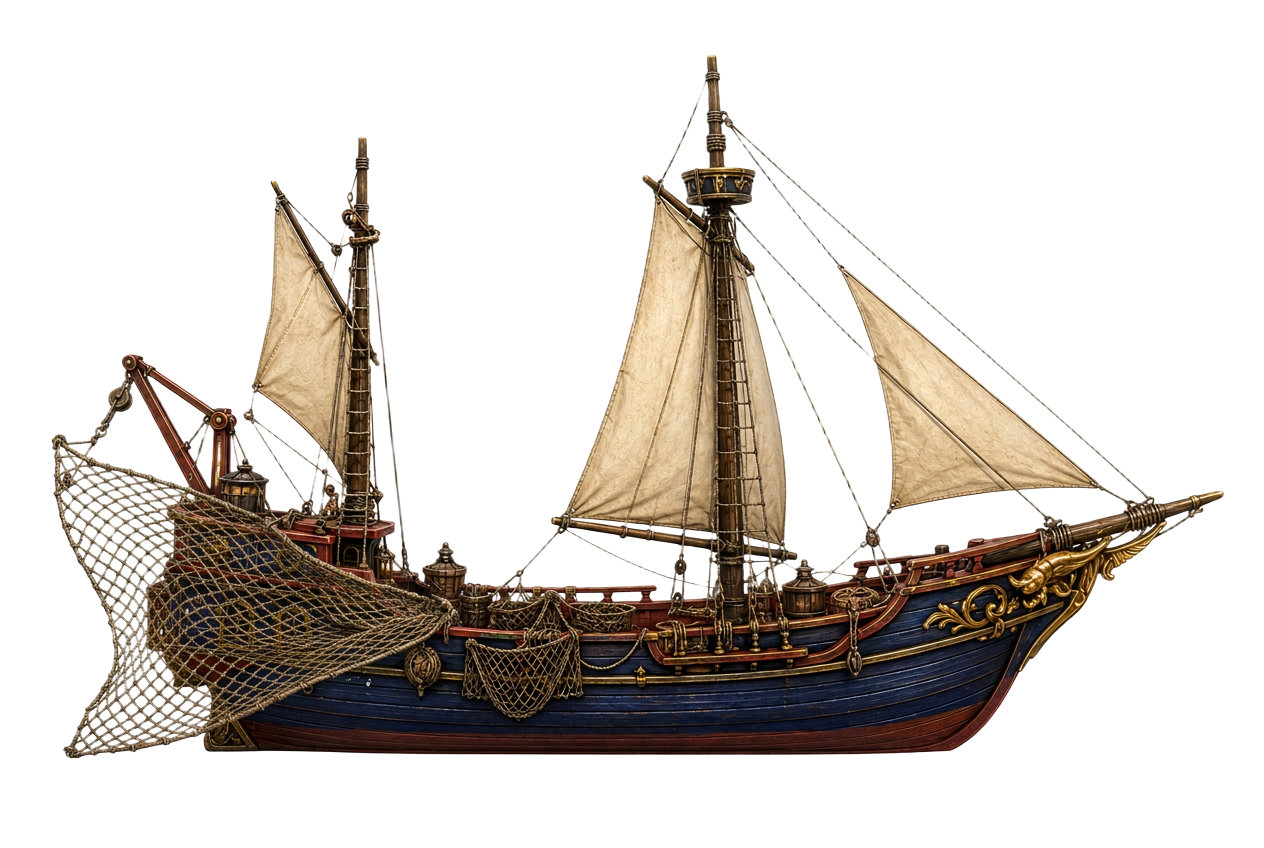
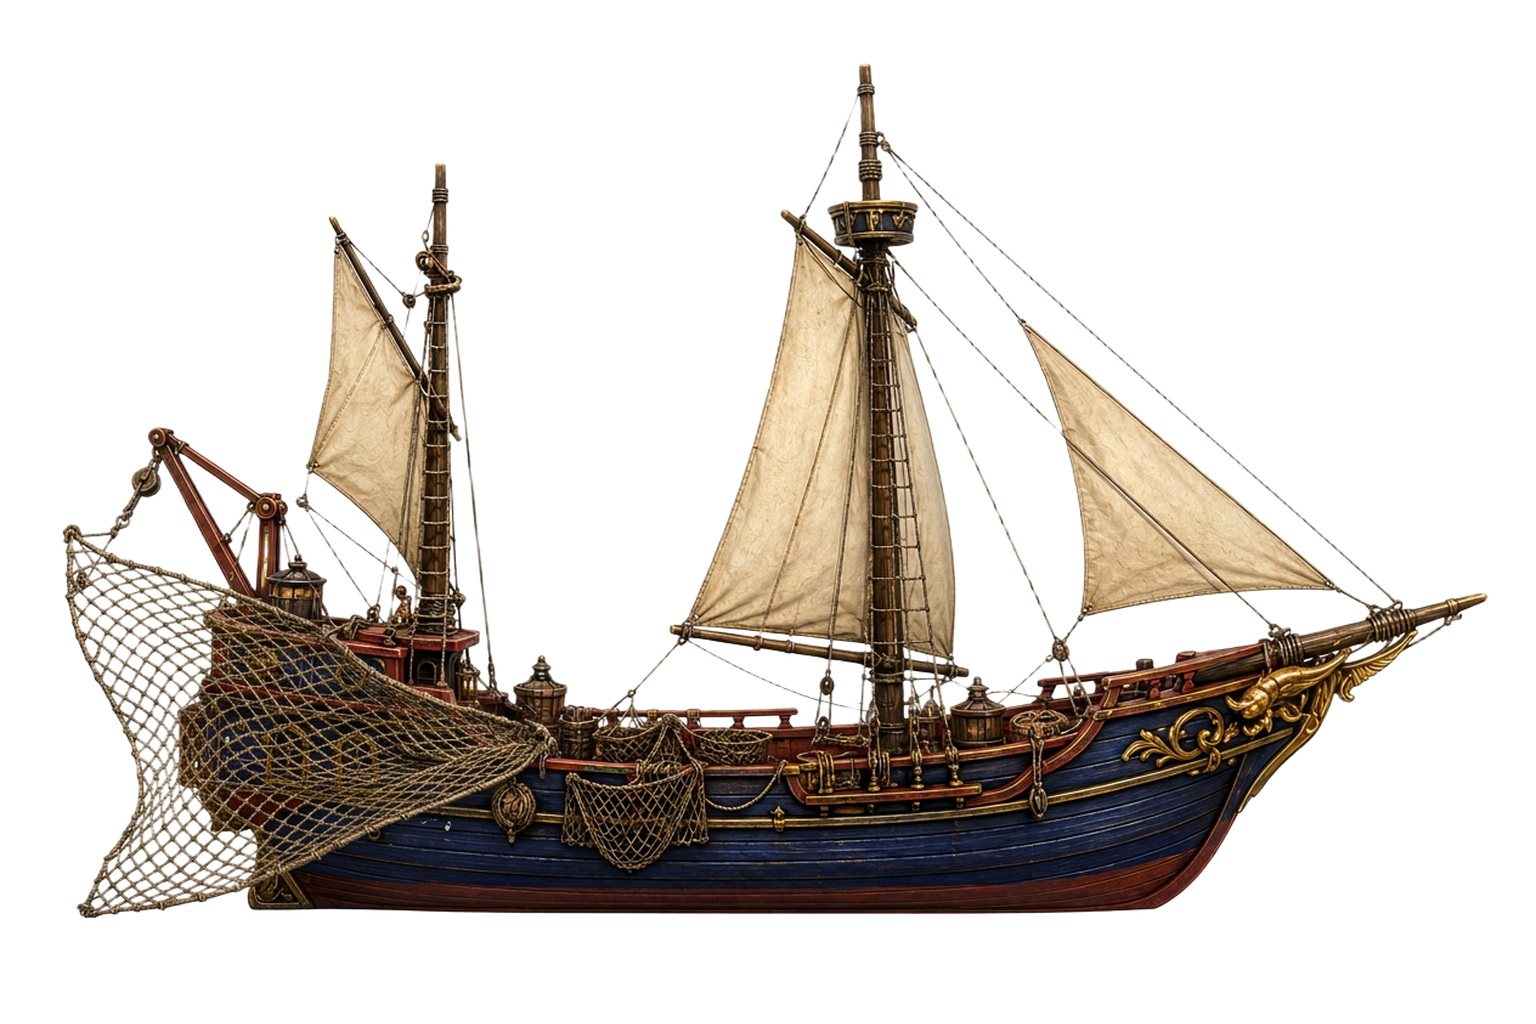
Work in progress

diff --git a/src/components/FishingFleet.tsx b/src/components/FishingFleet.tsx
@@ -1,0 +1,133 @@
+import { useEffect, useRef, useState, type CSSProperties } from "react";
+import { X } from "lucide-react";
+
+import shipIdle from "@/assets/ships/fishing-ship-idle.png";
+import shipCast from "@/assets/ships/fishing-ship-cast.png";
+import shipHaul from "@/assets/ships/fishing-ship-haul.png";
+import { GameSprite } from "@/components/GameSprite";
+import { Button } from "@/components/ui/button";
+import { CREWS } from "@/lib/items";
+import { fmt } from "@/lib/ships";
+import { playSfx } from "@/lib/sound";
+
+type ShipState = "docked" | "sailingOut" | "fishing" | "hauling" | "sailingHome" | "sold";
+type FleetShip = { id: number; state: ShipState };
+type ShipStyle = CSSProperties & { "--ship-x": string; "--ship-y": string; "--ship-delay": string };
+
+const initialFleet: FleetShip[] = [1, 2, 3].map((id) => ({ id, state: "docked" }));
+const positions = [
+  { x: "29%", y: "65%", delay: "0ms" },
+  { x: "50%", y: "57%", delay: "260ms" },
+  { x: "70%", y: "65%", delay: "520ms" },
+];
+
+export function FishingFleet() {
+  const [ships, setShips] = useState(initialFleet);
+  const [selected, setSelected] = useState<number | null>(null);
+  const [crewFor, setCrewFor] = useState<number | null>(null);
+  const [sellFor, setSellFor] = useState<number | null>(null);
+  const timers = useRef<number[]>([]);
+
+  useEffect(() => () => timers.current.forEach((timer) => window.clearTimeout(timer)), []);
+
+  const update = (id: number, state: ShipState) => {
+    setShips((current) => current.map((ship) => (ship.id === id ? { ...ship, state } : ship)));
+  };
+
+  const later = (callback: () => void, delay: number) => {
+    timers.current.push(window.setTimeout(callback, delay));
+  };
+
+  const sail = (ship: FleetShip) => {
+    setSelected(null);
+    playSfx("waves", 0.42);
+    if (ship.state === "docked") {
+      update(ship.id, "sailingOut");
+      later(() => update(ship.id, "fishing"), 2200);
+      return;
+    }
+    if (ship.state === "fishing") {
+      update(ship.id, "hauling");
+      later(() => update(ship.id, "sailingHome"), 950);
+      later(() => update(ship.id, "docked"), 3150);
+    }
+  };
+
+  return (
+    <div className="fleet-layer" aria-label="أسطول الصيد">
+      {ships.map((ship, index) => {
+        if (ship.state === "sold") return null;
+        const pos = positions[index];
+        if (!pos) return null;
+        const busy = ship.state === "sailingOut" || ship.state === "hauling" || ship.state === "sailingHome";
+        const image = ship.state === "fishing" ? shipCast : ship.state === "hauling" ? shipHaul : shipIdle;
+        const style: ShipStyle = { "--ship-x": pos.x, "--ship-y": pos.y, "--ship-delay": pos.delay };
+        return (
+          <div key={ship.id} className={`fleet-ship fleet-ship-${ship.state}`} style={style}>
+            {selected === ship.id && !busy && (
+              <div className="ship-actions" role="menu" aria-label={`أوامر السفينة ${ship.id}`}>
+                <Button variant="ghost" role="menuitem" onClick={() => sail(ship)} aria-label={ship.state === "docked" ? "الذهاب للصيد" : "العودة للميناء"} title={ship.state === "docked" ? "الذهاب للصيد" : "العودة للميناء"}>
+                  <img src="/img/act-dock.png" alt="" />
+                </Button>
+                <Button variant="ghost" role="menuitem" onClick={() => { setSelected(null); setCrewFor(ship.id); playSfx("click", 0.65); }} aria-label="تفقد الطاقم" title="تفقد الطاقم">
+                  <img src="/img/act-crew.png" alt="" />
+                </Button>
+                <Button variant="ghost" role="menuitem" onClick={() => { setSelected(null); setSellFor(ship.id); playSfx("click", 0.65); }} aria-label="بيع السفينة" title="بيع السفينة">
+                  <img src="/img/act-sail.png" alt="" />
+                </Button>
+              </div>
+            )}
+            <Button
+              variant="ghost"
+              className="ship-hitbox"
+              disabled={busy}
+              aria-label={`السفينة ${ship.id}${busy ? " تتحرك" : ""}`}
+              onClick={() => { setSelected((current) => current === ship.id ? null : ship.id); playSfx("click", 0.6); }}
+            >
+              <span className="ship-water-shadow" />
+              <img src={image} alt={`سفينة الصيد ${ship.id}`} width={1536} height={1024} draggable={false} />
+              {ship.state === "fishing" && <span className="fishing-ripple" />}
+            </Button>
+          </div>
+        );
+      })}
+
+      {crewFor !== null && <CrewPanel shipId={crewFor} onClose={() => setCrewFor(null)} />}
+      {sellFor !== null && (
+        <div className="fleet-modal" role="dialog" aria-modal="true" aria-label="بيع السفينة" onClick={() => setSellFor(null)}>
+          <section className="sell-panel" dir="rtl" onClick={(event) => event.stopPropagation()}>
+            <img src={shipIdle} alt="" width={1536} height={1024} />
+            <h2>بيع السفينة؟</h2>
+            <p>ستحصل على 12,500 عملة ذهبية. سيبقى أسطولك قابلاً للإبحار بالسفن الأخرى.</p>
+            <div>
+              <Button variant="destructive" onClick={() => { update(sellFor, "sold"); setSellFor(null); playSfx("click", 0.8); }}>تأكيد البيع</Button>
+              <Button variant="secondary" onClick={() => setSellFor(null)}>إلغاء</Button>
+            </div>
+          </section>
+        </div>
+      )}
+    </div>
+  );
+}
+
+function CrewPanel({ shipId, onClose }: { shipId: number; onClose: () => void }) {
+  const [active, setActive] = useState<string | null>(null);
+  return (
+    <div className="fleet-modal" role="dialog" aria-modal="true" aria-label={`طاقم السفينة ${shipId}`} onClick={onClose}>
+      <section className="crew-panel" dir="rtl" onClick={(event) => event.stopPropagation()}>
+        <header><h2>طاقم السفينة {shipId}</h2><Button variant="ghost" size="icon" onClick={onClose} aria-label="إغلاق"><X /></Button></header>
+        <ul>
+          {CREWS.slice(0, 4).map((crew, index) => (
+            <li key={crew.id}>
+              <GameSprite atlas="crew" index={index} className="crew-portrait" />
+              <span><strong>{crew.name}</strong><small>{crew.desc}</small></span>
+              <Button disabled={active === crew.id} onClick={() => { setActive(crew.id); playSfx("click", 0.7); }}>
+                {active === crew.id ? "يعمل الآن" : "استخدام"}<small>{crew.hours}H · {fmt(crew.price)}</small>
+              </Button>
+            </li>
+          ))}
+        </ul>
+      </section>
+    </div>
+  );
+}

diff --git a/src/components/BottomDock.tsx b/src/components/BottomDock.tsx
@@ -1,0 +1,47 @@
+import { Button } from "@/components/ui/button";
+import dockChat from "@/assets/dock/chat.png";
+import dockStats from "@/assets/dock/stats.png";
+import dockBag from "@/assets/dock/bag.png";
+import dockStore from "@/assets/dock/store.png";
+import dockQuests from "@/assets/dock/quests.png";
+import dockBattle from "@/assets/dock/battle.png";
+import dockTribe from "@/assets/dock/tribe.png";
+import { playSfx } from "@/lib/sound";
+
+export type DockAction = "chat" | "stats" | "bag" | "store" | "quests" | "battle" | "tribe";
+
+const items: { id: DockAction; label: string; image: string }[] = [
+  { id: "chat", label: "الدردشة", image: dockChat },
+  { id: "stats", label: "الإحصائيات", image: dockStats },
+  { id: "bag", label: "الحقيبة", image: dockBag },
+  { id: "store", label: "المتجر", image: dockStore },
+  { id: "quests", label: "المهام", image: dockQuests },
+  { id: "battle", label: "المعركة", image: dockBattle },
+  { id: "tribe", label: "القبيلة", image: dockTribe },
+];
+
+export function BottomDock({ onAction }: { onAction: (action: DockAction) => void }) {
+  return (
+    <nav className="game-dock" aria-label="قائمة اللعبة">
+      <ul>
+        {items.map((item) => (
+          <li key={item.id}>
+            <Button
+              variant="ghost"
+              className="game-dock-button"
+              aria-label={item.label}
+              title={item.label}
+              onPointerEnter={() => playSfx("hover", 0.3)}
+              onClick={() => {
+                playSfx("click", 0.72);
+                onAction(item.id);
+              }}
+            >
+              <img src={item.image} alt="" width={256} height={264} draggable={false} />
+            </Button>
+          </li>
+        ))}
+      </ul>
+    </nav>
+  );
+}
